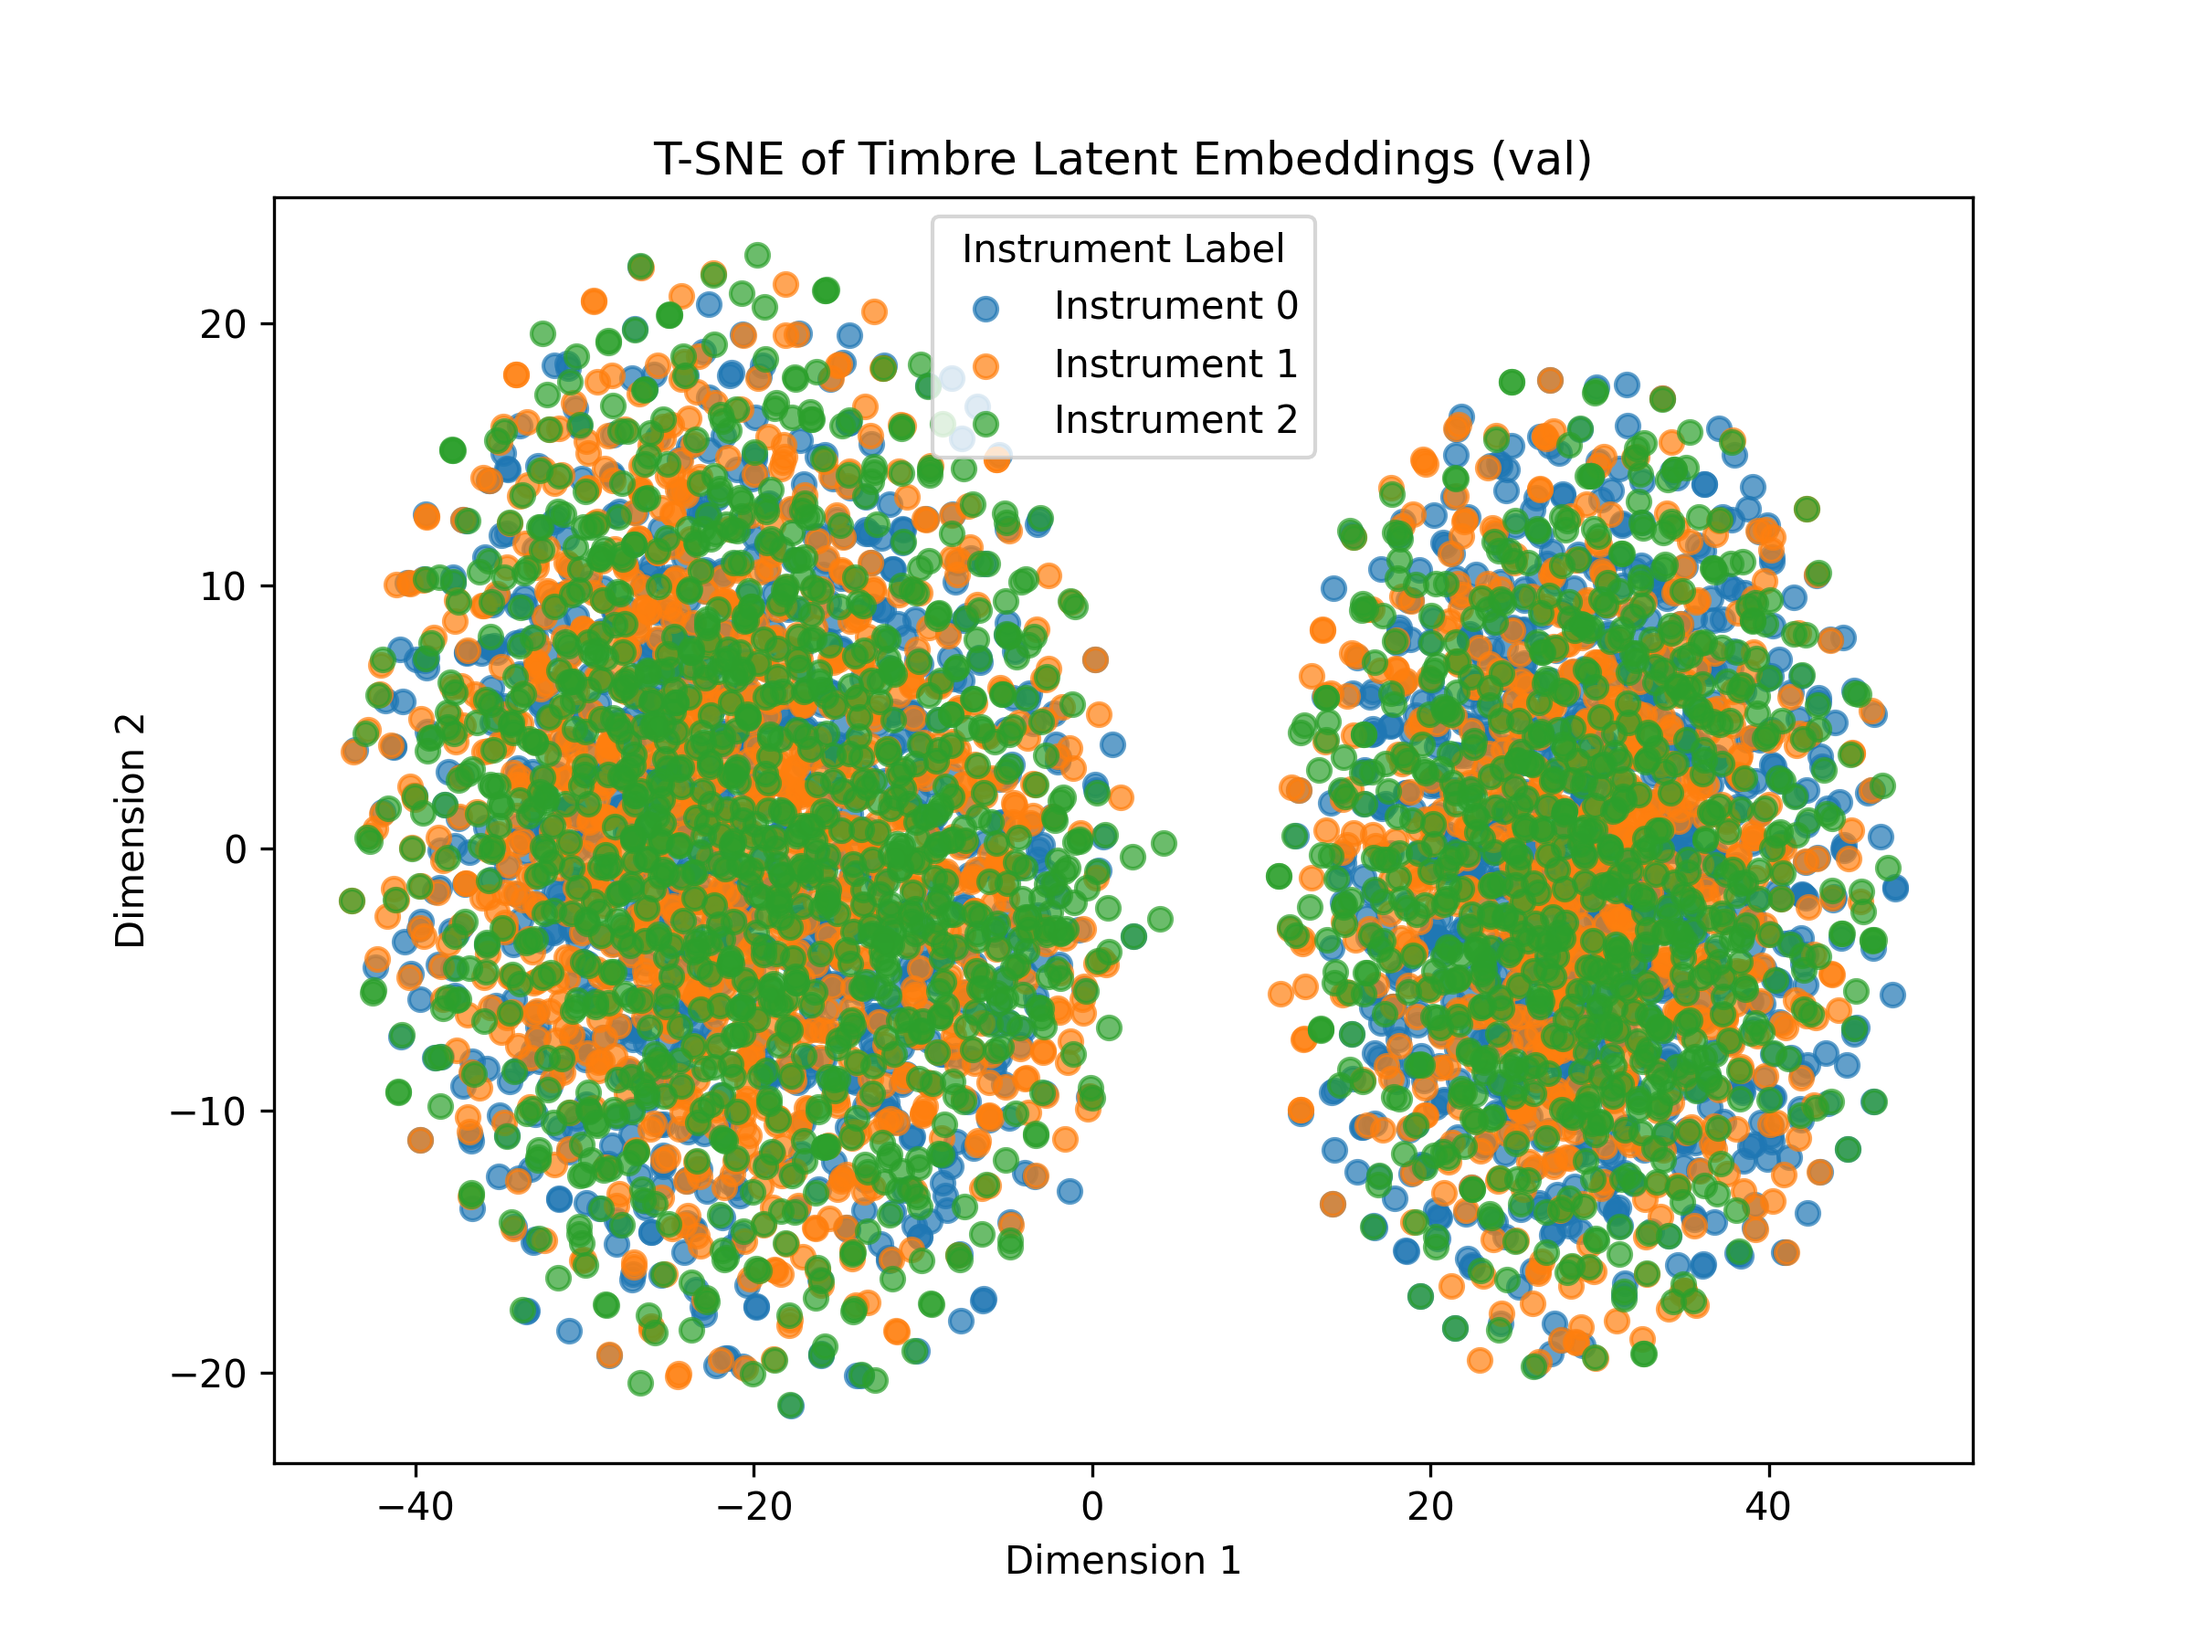
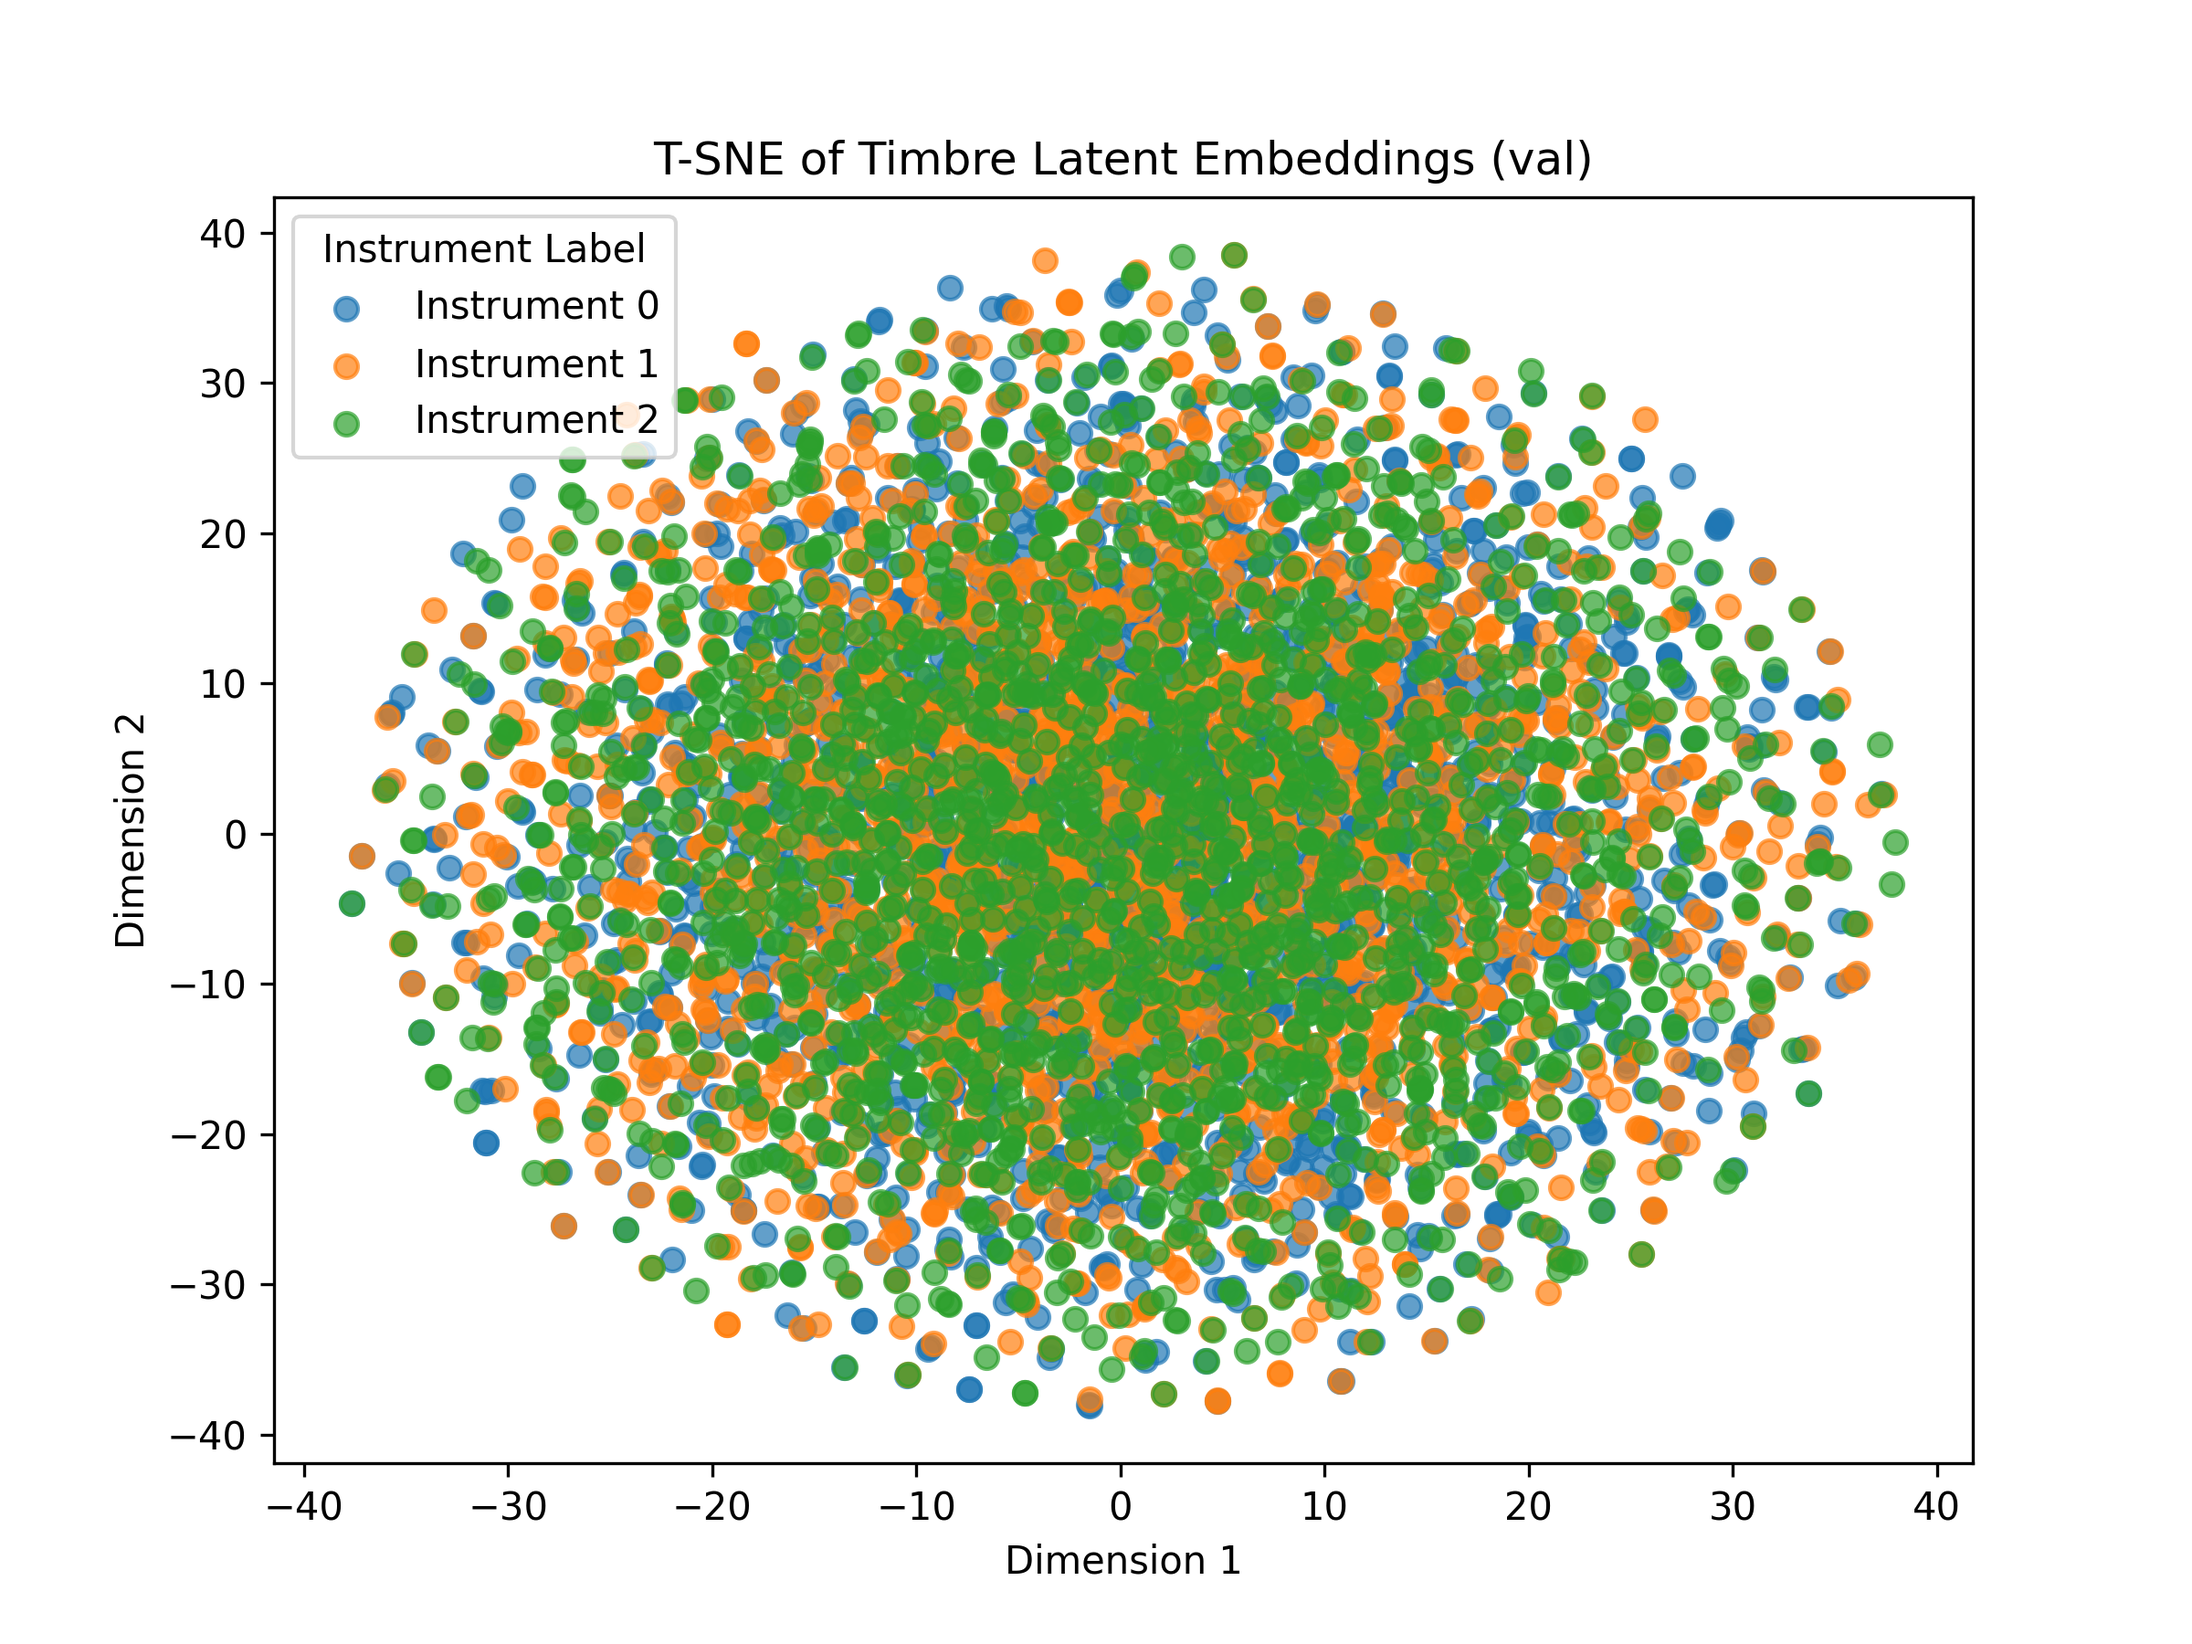
Push

diff --git a/dismix/dismix_loss.py b/dismix/dismix_loss.py
@@ -32,7 +32,6 @@ class ELBOLoss(nn.Module):
 
         # 1. Reconstruction loss (MSE)
         recon_loss = F.mse_loss(x_m_recon, x_m, reduction=self.reduction)
-        # recon_loss = self.gaussian_likelihood(x_m_recon, self.log_scale, x_m)
 
         # 2. Pitch supervision loss
         pitch_loss = F.mse_loss(pitch_latent, pitch_priors, reduction=self.reduction)
@@ -45,7 +44,7 @@ class ELBOLoss(nn.Module):
             kl_loss = kl_loss.sum()
         
         # Total ELBO loss
-        loss = pitch_loss + kl_loss  # recon_loss + pitch_loss + kl_loss
+        loss = recon_loss + pitch_loss + kl_loss  # recon_loss + pitch_loss + kl_loss
 
         return loss
     
